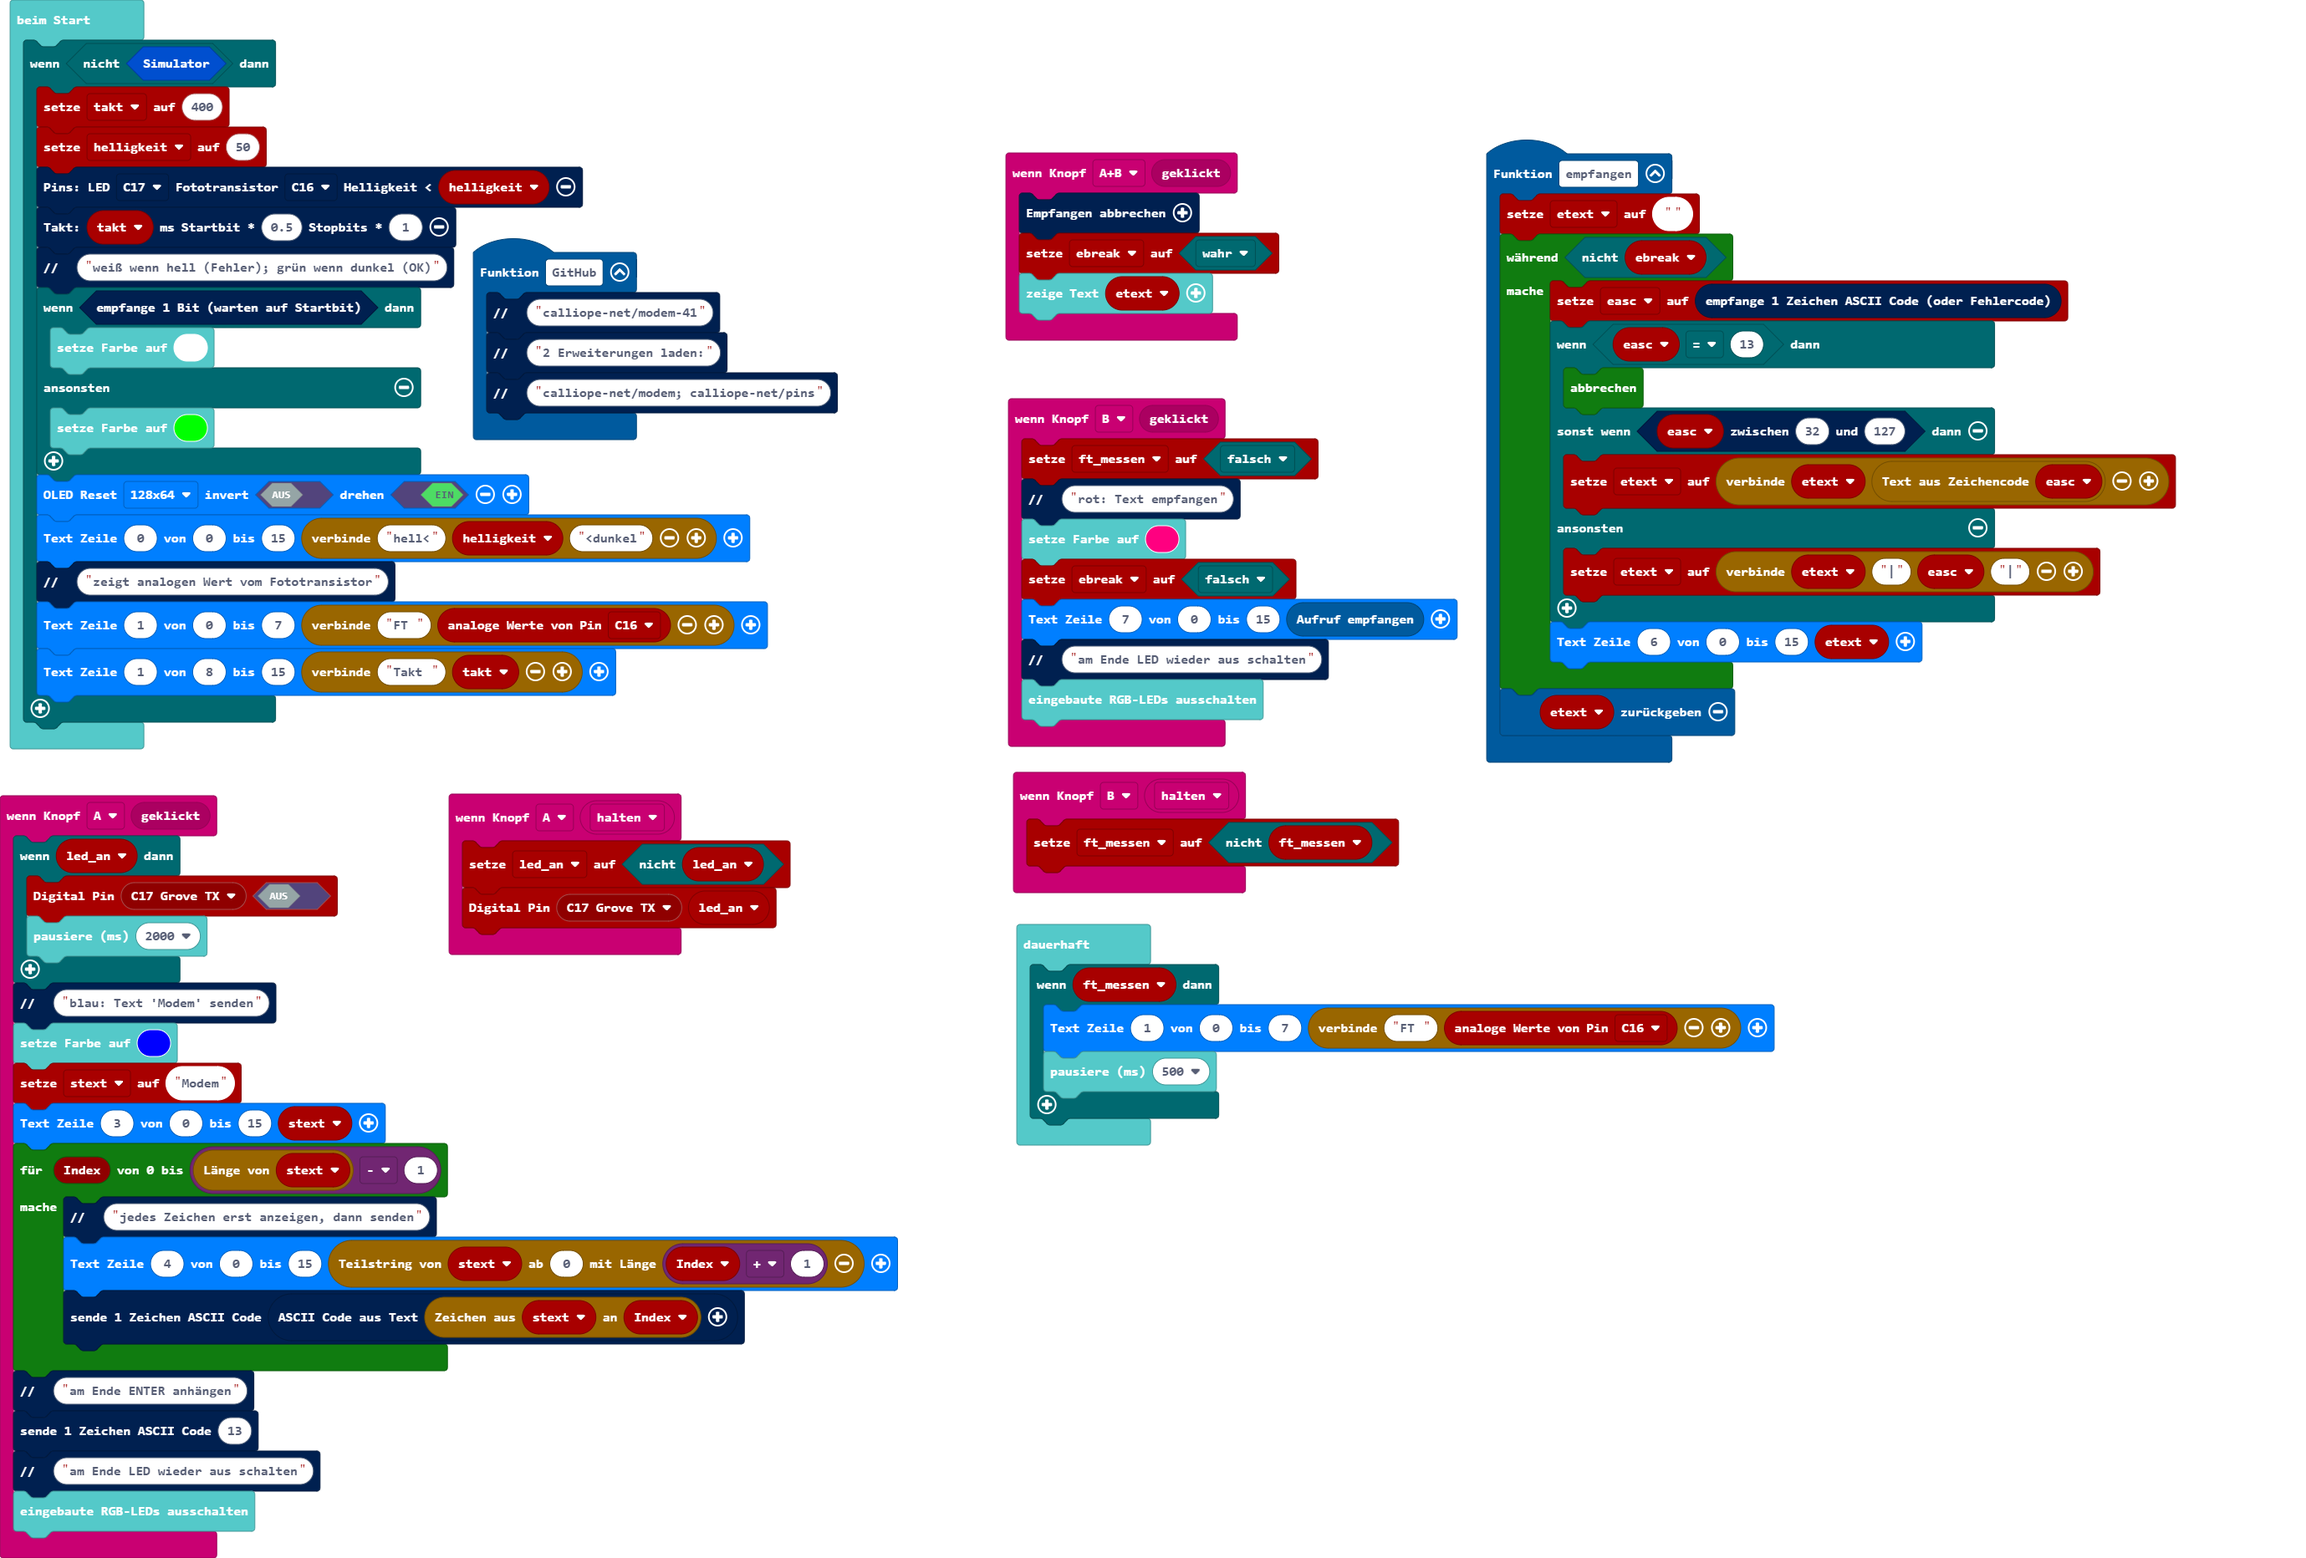
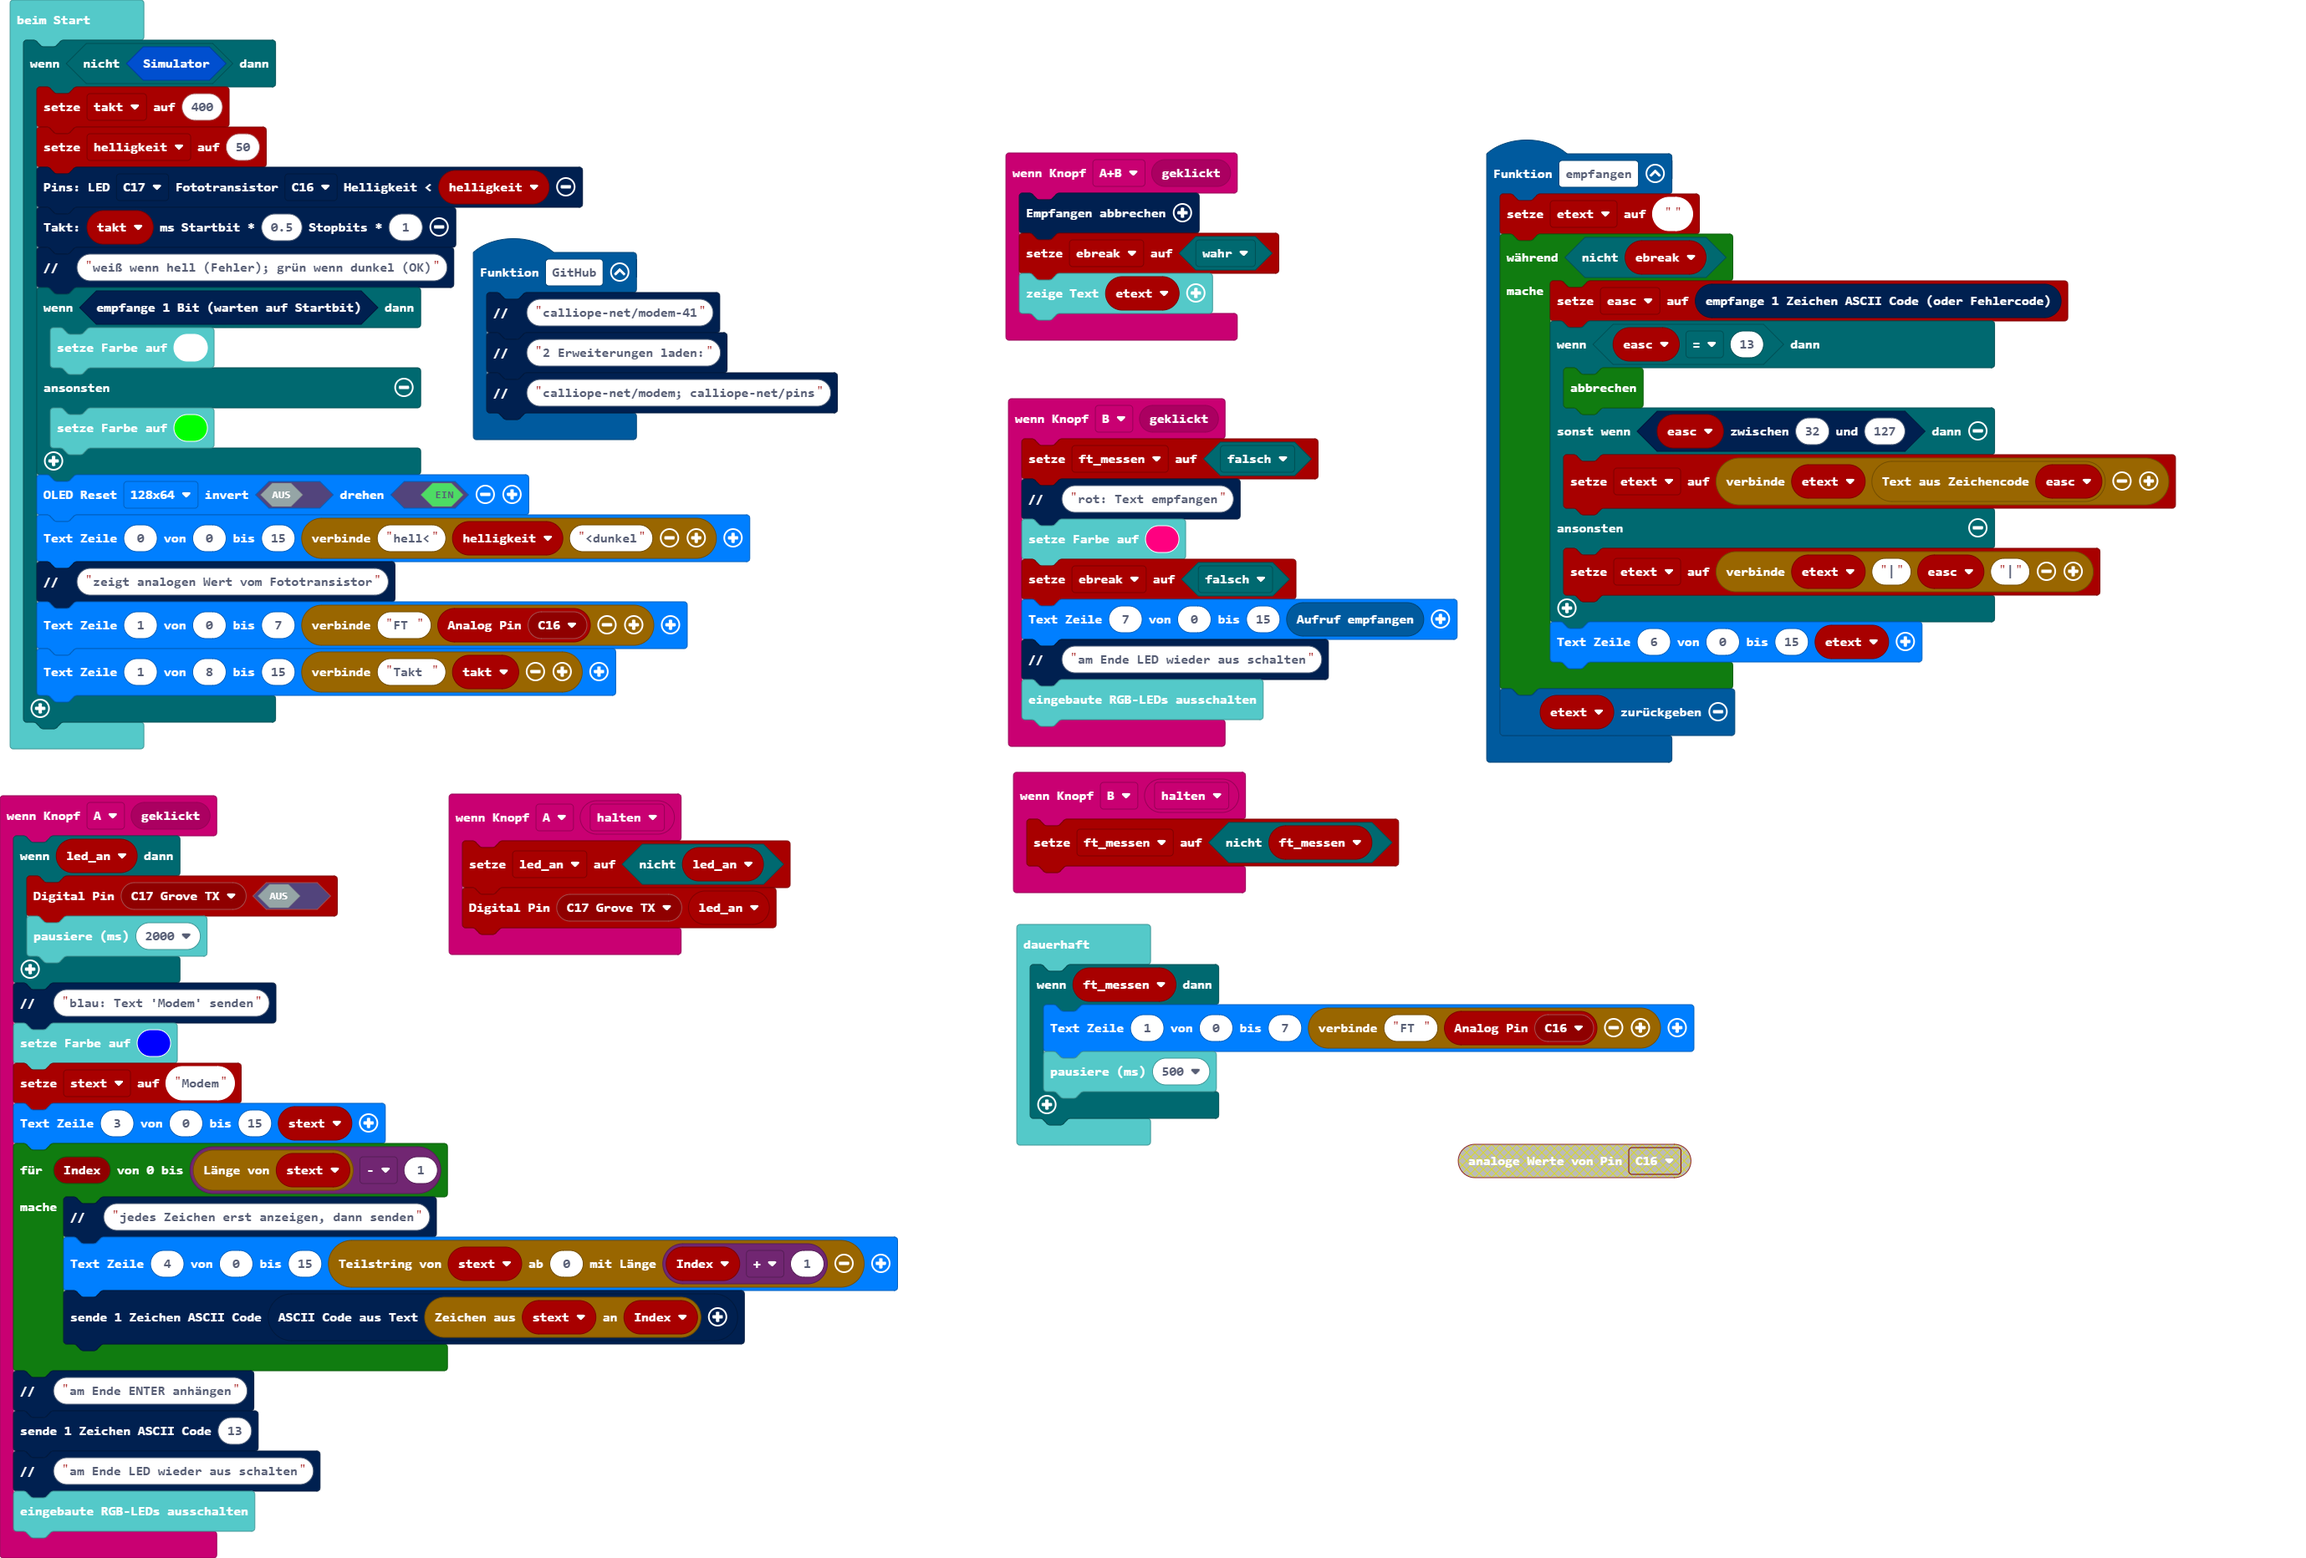
Aktualisiere pxt.json, main.blocks, main.ts

Changed region(s): [[0.6236, 0.7157, 0.7484, 0.7779], [0.2183, 0.3734, 0.343, 0.4356], [0.6548, 0.6223, 0.7796, 0.6845]]

diff --git a/main.ts b/main.ts
@@ -80,12 +80,12 @@ if (!(pins.simulator())) {
     pins.oled_reset(pins.oled_pages.y64, false, true)
     pins.oled_write_text(0, 0, 15, "hell<" + helligkeit + "<dunkel")
     modem.comment("zeigt analogen Wert vom Fototransistor")
-    pins.oled_write_text(1, 0, 7, "FT " + pins.analogReadPin(AnalogPin.C16))
+    pins.oled_write_text(1, 0, 7, "FT " + pins.pinAnalogRead(pins.pins_AnalogPin(AnalogPin.C16)))
     pins.oled_write_text(1, 8, 15, "Takt " + takt)
 }
 basic.forever(function () {
     if (ft_messen) {
-        pins.oled_write_text(1, 0, 7, "FT " + pins.analogReadPin(AnalogPin.C16))
+        pins.oled_write_text(1, 0, 7, "FT " + pins.pinAnalogRead(pins.pins_AnalogPin(AnalogPin.C16)))
         basic.pause(500)
     }
 })
